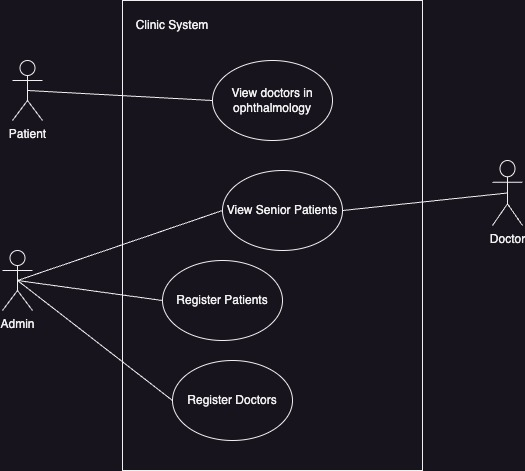
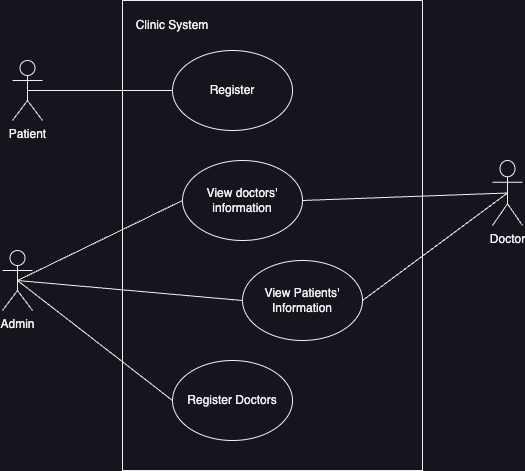
update usecase and readme

diff --git a/Week3/Activity5/README.md b/Week3/Activity5/README.md
@@ -1,13 +1,4 @@
-{\rtf1\ansi\ansicpg1252\cocoartf2821
-\cocoatextscaling0\cocoaplatform0{\fonttbl\f0\fnil\fcharset0 HelveticaNeue;}
-{\colortbl;\red255\green255\blue255;}
-{\*\expandedcolortbl;;}
-\paperw11900\paperh16840\margl1440\margr1440\vieww13440\viewh10200\viewkind0
-\deftab560
-\pard\pardeftab560\slleading20\partightenfactor0
 
-\f0\fs26 \cf0 This application is written for a private clinic to store and retrieve information about clinic\'92s doctors and patients.\
-\pard\pardeftab560\slleading20\pardirnatural\partightenfactor0
-\cf0 \
-\pard\pardeftab560\slleading20\partightenfactor0
-\cf0 The tech stack of the application is python and Sqlite3. The database of the application has two entities including doctor and patient. These tables have certain features that depict in ER diagram. Database has some sample data to test the application (5 sample records in each table). We have written sql queries to retrieve patients whose age is greater than 65 and doctor who is specialized in psychology. }
+This application is written for a private clinic to store and retrieve information about clinic's doctors and patients.
+
+I have used Python and SQLite3 to develop this system. The database of the application has two entities including doctor and patient. These tables have certain features that depict in ER diagram. Database has some sample data included to verify the application's use cases (5 sample records in each table). I have written sql queries to retrieve patients whose age is greater than 65 and doctor who is specialized in psychology.
